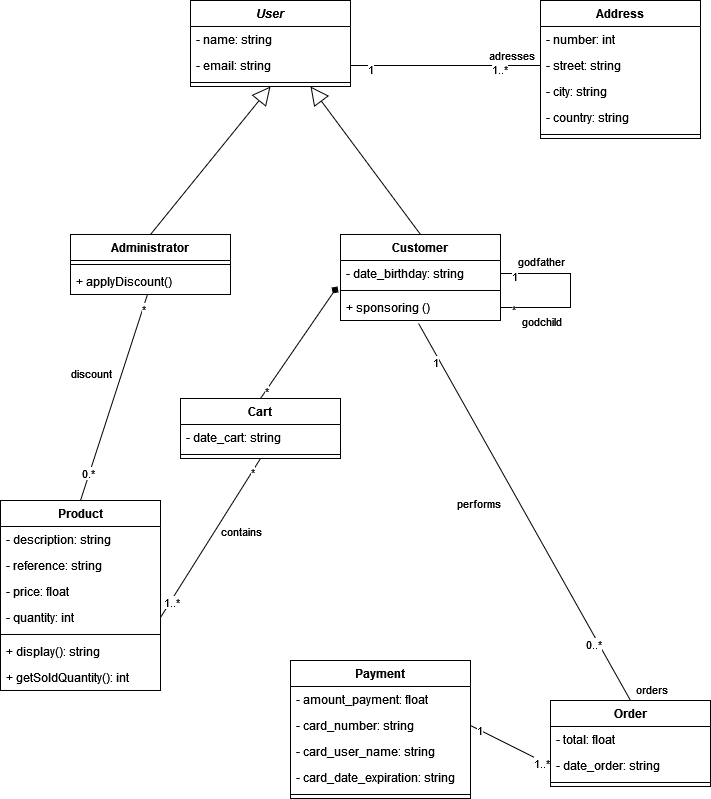
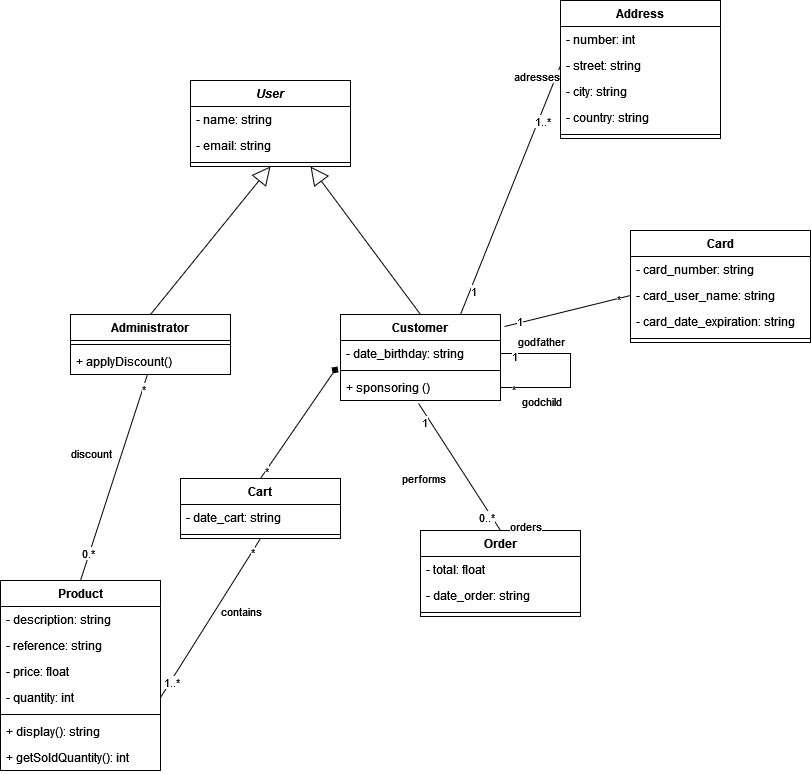
refactor: change payment class to card class

diff --git a/1-exercices/corrections/exercice3.md b/1-exercices/corrections/exercice3.md
@@ -52,3 +52,5 @@ Par contre pour le diagramme de classes, il est indispensable que ça soit en an
 ## Global en rassemblant toutes les entités, attributs et méthodes
 
 ![global](./img/class_global.png)
+
+La recherche des produits achetés, la carte utilisée durant la commande ainsi que l'adresse de livraison ne seront pas optimales avec ce modèle. En effet il faut passer par d'autres classes intermédiaires pour accéder à ces informations.
